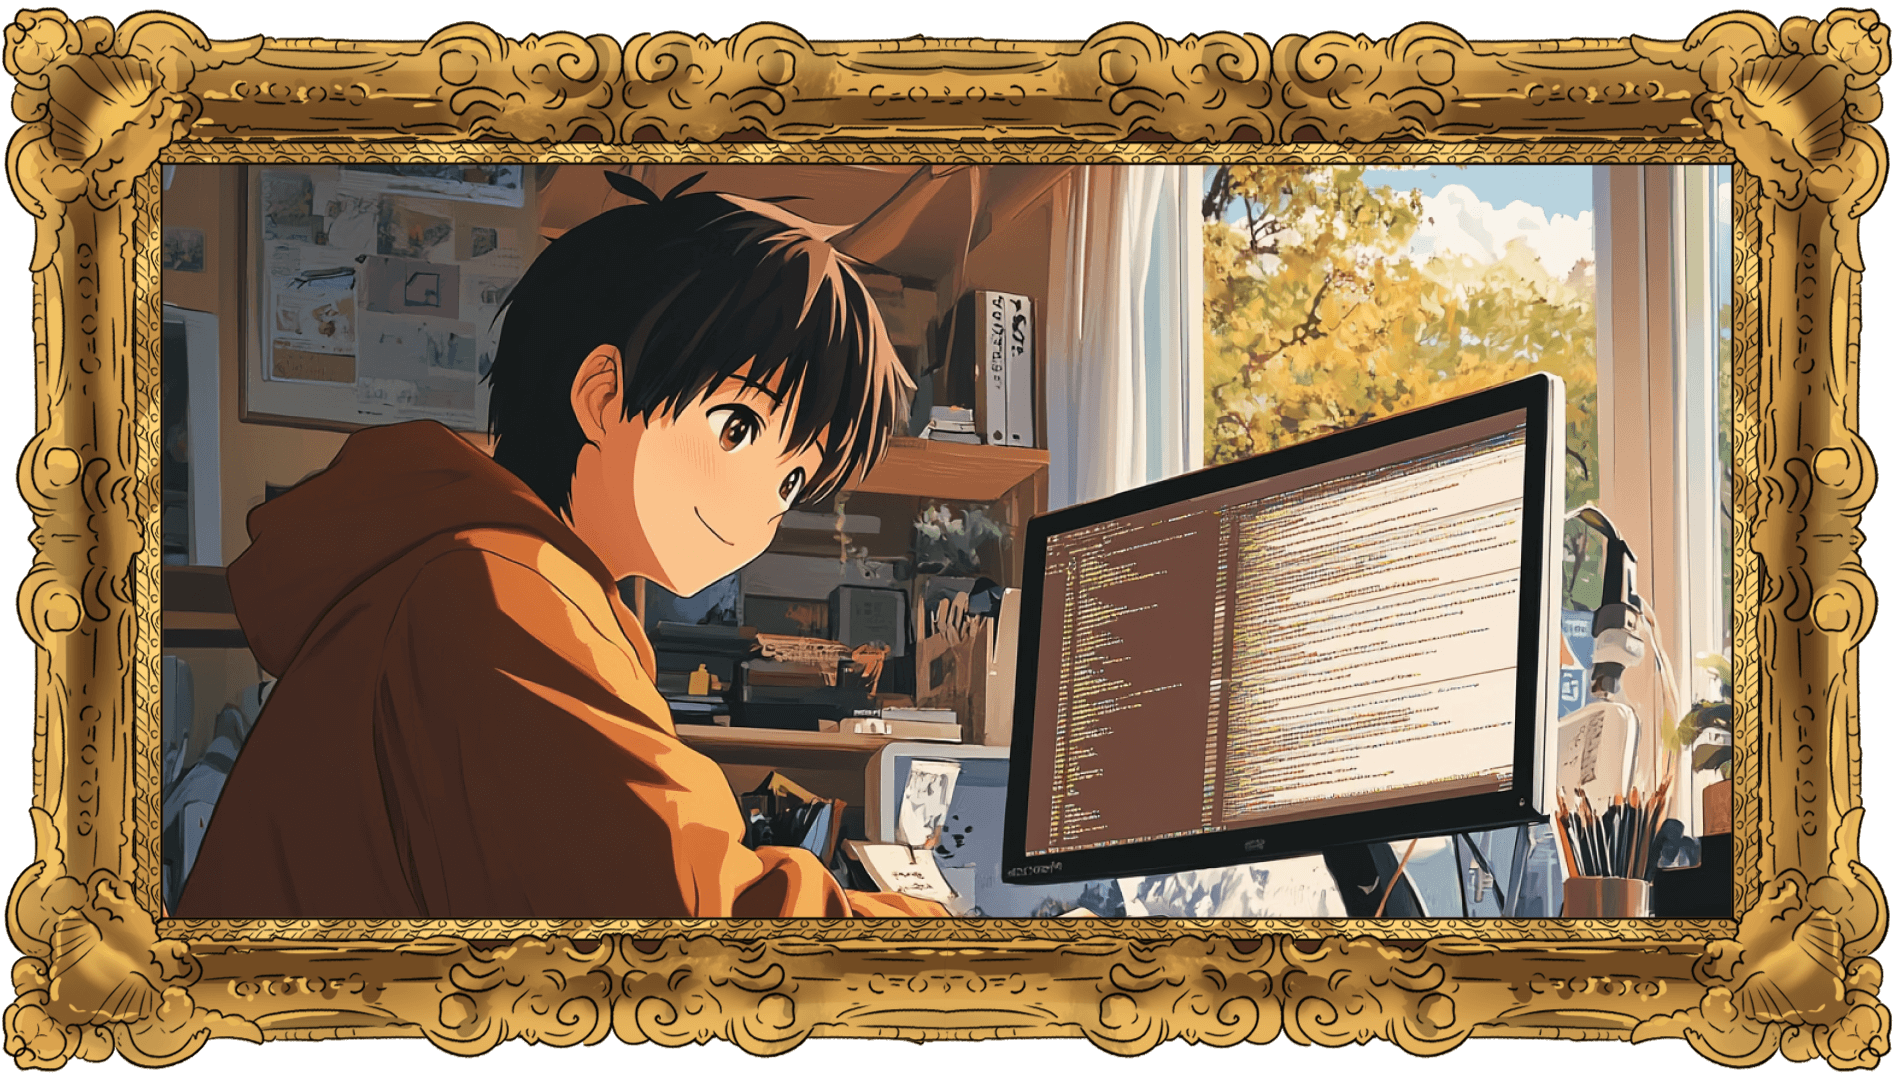
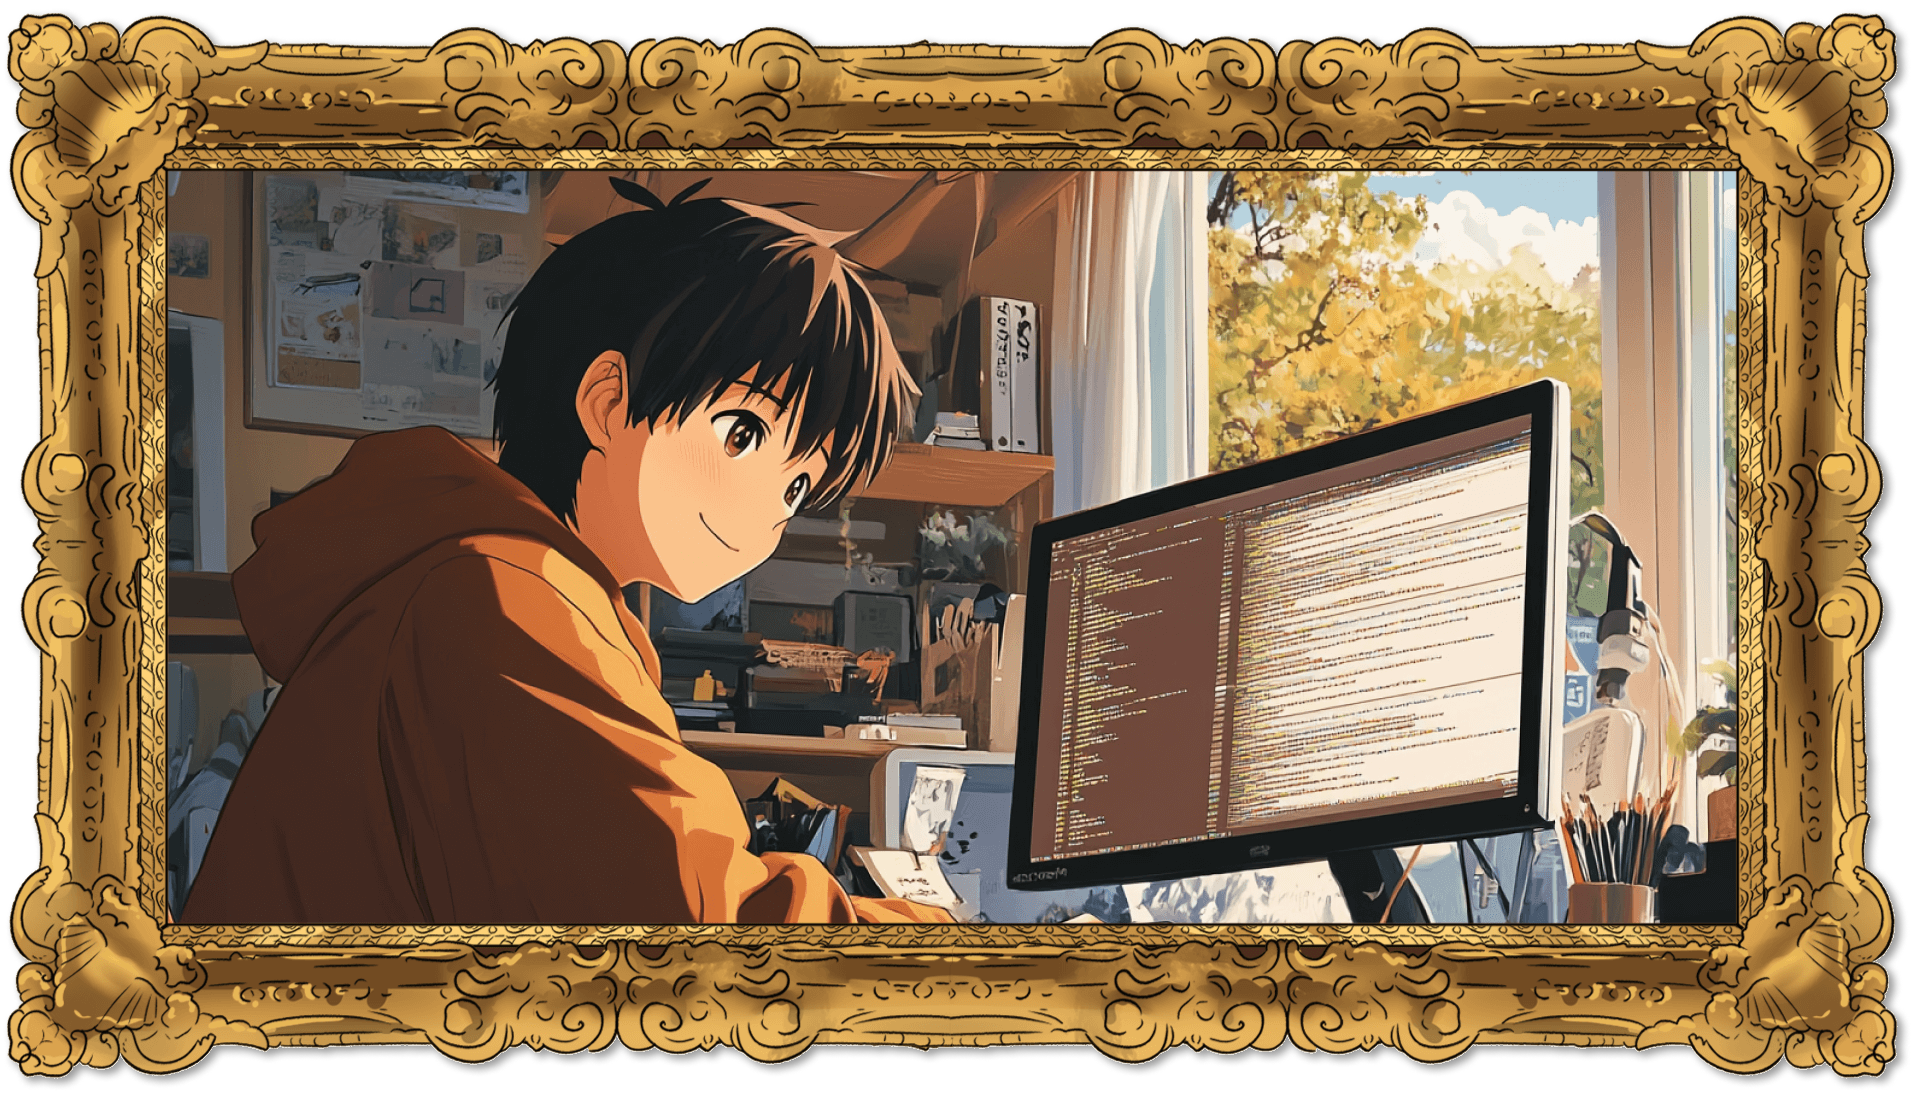
shadows

diff --git a/app/components/Framed.module.css b/app/components/Framed.module.css
@@ -11,13 +11,15 @@
 
 .imageWrapper {
     position: absolute;
-    width: 100%;
+    width: 60%;
     height: 100%;
 }
-
+.imageWrapper
 .frameImage {
     pointer-events: none;
     object-fit: cover;
+    max-width: 300px;
+    height: auto;
 }
 
 .content {

diff --git a/app/components/Framed.jsx b/app/components/Framed.jsx
@@ -5,7 +5,7 @@ import styles from './Framed.module.css';
 const Framed = () => {
   return (
     <div className={styles.container}>
-      <Image
+      <Image 
         src="/program1.png"
         alt="Decorative frame"
         layout="fill"

diff --git a/app/program/page.module.css b/app/program/page.module.css
@@ -54,7 +54,7 @@
     align-items: center;
 }
 .sixLayoutBox img {
-    max-width: 420px;
+    max-width: 450px;
     height: auto;
 }
 
